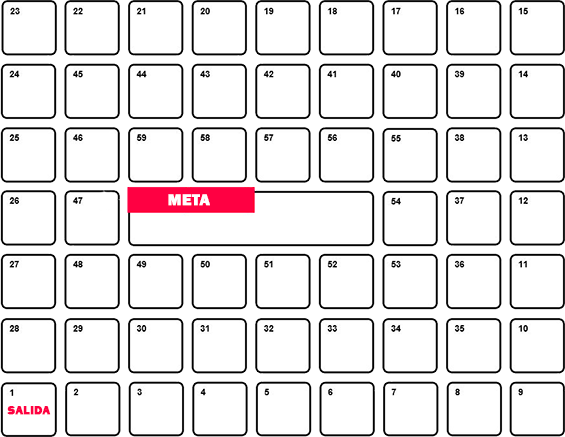
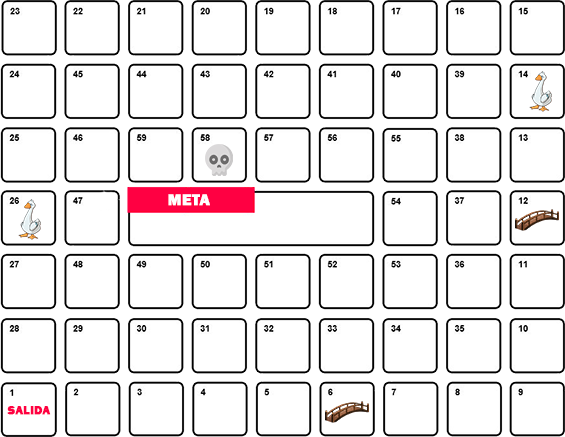
Add special moves

diff --git a/js/game.js b/js/game.js
@@ -1,8 +1,13 @@
 $(document).ready(function () {
 	let players = [];
 	let winners = [];
+
 	const board = {
 		turn: 1,
+		gameStarted: false,
+		rollAgain: false,
+		specialMove: false,
+		gameEnded: false,
 	};
 
 	$('#form-jugadores').submit(function (event) {
@@ -17,6 +22,9 @@ $(document).ready(function () {
 
 	// Función para iniciar el juego
 	function startGame(qtyPlayers) {
+		board.gameStarted = true;
+
+		$('#message').text('¡Que empiece el juego!');
 		// Creamos a los jugadores y los añadimos al array de jugadores según la cantidad seleccionada
 		for (let i = 0; i < qtyPlayers; i++) {
 			let id = i + 1;
@@ -47,6 +55,13 @@ $(document).ready(function () {
 
 	// Evento para lanzar el dado
 	$('.roll-dice-btn').click(async function () {
+		// Al haber reiniciado la partida, cuando se lanza por primera vez el dado, se inicia la partida
+		board.gameStarted = true;
+		board.rollAgain = false;
+		board.specialMove = false;
+
+		$('#message').text('Turno del siguiente jugador');
+
 		console.log('Girando Dado...');
 		let dice = 1;
 		const sfxDice = $('#sfx-roll-dice')[0];
@@ -64,11 +79,13 @@ $(document).ready(function () {
 				dice = players[board.turn - 1].rollDice();
 				// Actualizamos la posición del jugador en el tablero
 				updatePlayerPosition(board.turn - 1, dice);
-				// Pasamos al siguiente jugador
-				nextPlayer();
 				resolve();
 			}, 1000);
 		});
+
+		// Si se ha reinitiado la partida, no continuamos
+		if (!board.gameStarted) return;
+		// if (board.rollAgain) return;
 
 		sfxDice.pause();
 		sfxDice.currentTime = 0;
@@ -77,6 +94,22 @@ $(document).ready(function () {
 		$('#dice-img').attr('src', `./img/dado${dice}.png`);
 		// Habilitamos el botón de lanzar dado
 		enableRollDice();
+
+		// Si el jugador ha sacado un 6, vuelve a lanzar el dado
+		if (dice === 6 && players[board.turn - 1].finish === false) {
+			board.rollAgain = true;
+			$('#message').text('Un 6 ¡Vuelve a lanzar el dado!');
+			return;
+		}
+
+		if (board.rollAgain && players[board.turn - 1].finish === false) {
+			board.rollAgain = false;
+			return;
+		}
+
+		if (board.gameEnded) return;
+		// Pasamos al siguiente jugador
+		nextPlayer();
 	});
 
 	// Función para habilitar el botón de lanzar dado
@@ -94,12 +127,13 @@ $(document).ready(function () {
 	}
 
 	// Función para actualizar la posición de los jugadores en el tablero
-	function updatePlayerPosition(playerIndex, dice) {
+	function updatePlayerPosition(playerIndex, moves) {
+		if (!board.gameStarted) return;
 		// Obtenemos el jugador actual
 		const player = players[playerIndex];
 
 		// Realizamos un bucle para mover al jugador tantas casillas como indique el dado, una casilla por iteración
-		for (let i = 0; i < dice; i++) {
+		for (let i = 0; i < moves; i++) {
 			// Obtenemos la posición actual del jugador en el tablero
 			let posBoard = player.getBoardPosition();
 
@@ -138,9 +172,110 @@ $(document).ready(function () {
 			);
 			// Actualizamos la posición del jugador en el tablero
 			player.setBoardPosition(posBoard + 1);
+			if (checkEnd()) return;
 		}
+		// Comprobamos si todos los jugadores han terminado la partida
+
+		checkSpecialPosition(playerIndex);
 
 		console.log(players[board.turn - 1]);
+	}
+
+	function checkSpecialPosition(playerIndex) {
+		const player = players[playerIndex];
+		const posBoard = player.getBoardPosition();
+
+		// Comprobamos si el jugador ha caído en una casilla especial
+		switch (posBoard) {
+			case 6:
+				// Puente
+				if (board.specialMove) {
+					board.specialMove = false;
+					return;
+				}
+				$('#message').text(
+					'Puente: Avanza hasta la casilla 12, turno del siguiente jugador'
+				);
+				board.specialMove = true;
+				player.setBoardPosition(12);
+				$(`#player${playerIndex + 1}`).animate(
+					{
+						left: 560,
+						bottom: 220,
+					},
+					400
+				);
+				break;
+			case 12:
+				// Puente
+				if (board.specialMove) {
+					board.specialMove = false;
+					return;
+				}
+				$('#message').text(
+					'Puente: Retrocede hasta la casilla 6, turno del siguiente jugador'
+				);
+				player.setBoardPosition(6);
+				$(`#player${playerIndex + 1}`).animate(
+					{
+						left: 360,
+						bottom: 10,
+					},
+					400
+				);
+				break;
+			case 14:
+				// Oca
+				if (board.specialMove) {
+					board.specialMove = false;
+					return;
+				}
+				$('#message').text('De oca a oca y tiro porque me toca');
+				board.specialMove = true;
+				player.setBoardPosition(26);
+				$(`#player${playerIndex + 1}`).animate(
+					{
+						left: 20,
+						bottom: 220,
+					},
+					400
+				);
+				board.rollAgain = true;
+				break;
+
+			case 26:
+				// Oca
+				if (board.specialMove) {
+					board.specialMove = false;
+					return;
+				}
+				$('#message').text('De oca a oca y tiro porque me toca');
+				player.setBoardPosition(14);
+				board.specialMove = true;
+				$(`#player${playerIndex + 1}`).animate(
+					{
+						left: 560,
+						bottom: 360,
+					},
+					400
+				);
+				board.rollAgain = true;
+				break;
+			case 58:
+				// Calavera
+				$('#message').text(
+					'Calavera: Retrocede hasta la casilla 1, turno del siguiente jugador'
+				);
+				player.setBoardPosition(1);
+				$(`#player${playerIndex + 1}`).animate(
+					{
+						left: '0px',
+						bottom: '0px',
+					},
+					400
+				);
+				break;
+		}
 	}
 
 	// Función para pasar al siguiente jugador
@@ -171,6 +306,8 @@ $(document).ready(function () {
 
 	// Función para comprobar si todos los jugadores han terminado la partida e ir metiéndolos en el array de ganadores en orden según terminen
 	function checkEnd() {
+		if (board.gameEnded) return;
+
 		let finishPlayers = 0;
 		players.forEach(player => {
 			if (player.finish) {
@@ -184,6 +321,7 @@ $(document).ready(function () {
 		// Si todos los jugadores han terminado, mostramos el mensaje de fin de partida y el modal con los ganadores
 		if (finishPlayers === players.length) {
 			console.log('Todos los jugadores han terminado');
+			board.gameEnded = true;
 
 			$('#roll-dice').hide();
 			$('#board-footer').hide();
@@ -216,6 +354,10 @@ $(document).ready(function () {
 
 		$('#winners').empty();
 
+		board.gameStarted = false;
+		board.rollAgain = false;
+		board.specialMove = false;
+		board.gameEnded = false;
 		board.turn = 1;
 		players = [];
 		winners = [];
@@ -225,6 +367,10 @@ $(document).ready(function () {
 
 	// Reiniciar la partida actual sin volver a seleccionar el número de jugadores
 	$('.restart-actual-game').click(function () {
+		board.gameStarted = false;
+		board.rollAgain = false;
+		board.specialMove = false;
+		board.gameEnded = false;
 		$(':animated').stop(true, true);
 		$('#game-ended').hide();
 		$('#board, #roll-dice, .roll-dice-btn').show();

diff --git a/index.html b/index.html
@@ -16,6 +16,9 @@
     </header>
     <section class="container">
         <img class="logo" src="./img/logo-oca.png" alt="Logo Oca">
+        <p id="message">
+            Hola! , selecciona la cantidad de jugadores y comienza a jugar
+        </p>
         <div class="game">
             <p class="select-players">Selecciona jugadores</p>
             <form class="form-players" id="form-jugadores">

diff --git a/css/styles.css b/css/styles.css
@@ -49,6 +49,22 @@ header {
 	box-shadow: -0px 10px 5px 0px rgba(0, 0, 0, 0.404);
 }
 
+#message {
+	font-size: 18px;
+	margin-bottom: 20px;
+	filter: drop-shadow(5px 2px 2px #42009e);
+
+	&::before {
+		content: '❝';
+		margin-right: 1px;
+	}
+
+	&::after {
+		content: '❞';
+		margin-left: 1px;
+	}
+}
+
 #roll-dice {
 	display: none;
 	justify-content: center;
